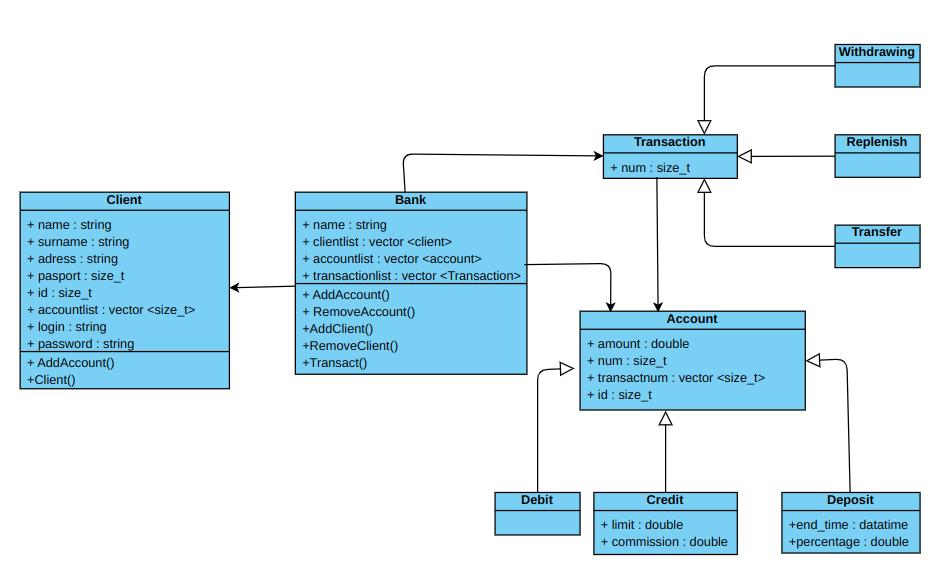
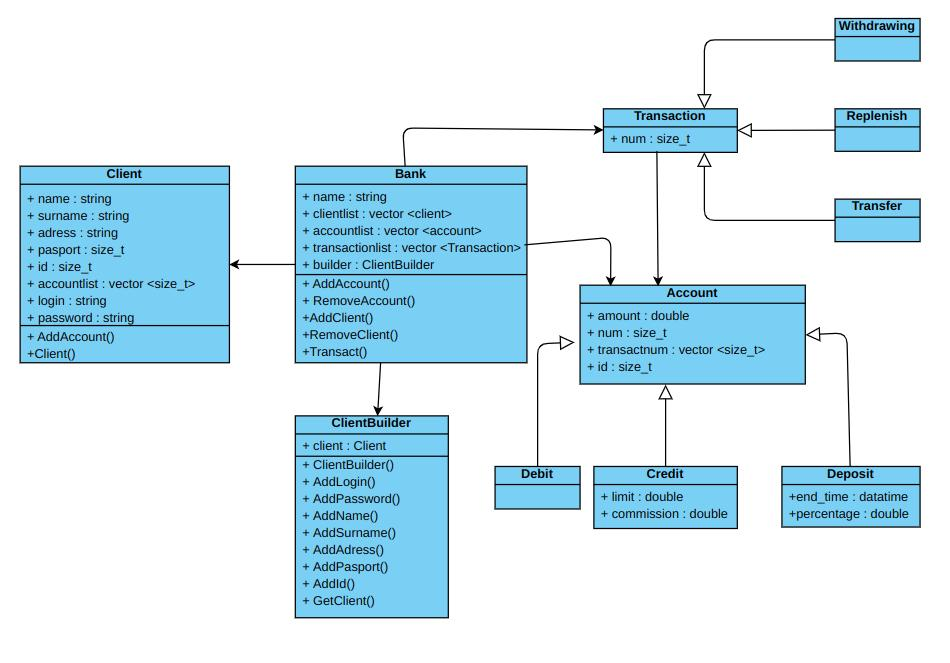
Upgrade all project, add builder

diff --git a/Code/bank.cpp b/Code/bank.cpp
@@ -31,34 +31,27 @@ void Bank::RemoveAccount(size_t num) {
 
 void Bank::AddClient() {
   std::cout << "Введите логин: ";
-  std::string login;
-  std::cin >> login;
+  builder->AddLogin();
   std::cout << "Введите пароль: ";
-  std::string pass;
-  std::cin >> pass;
+  builder->AddPassword();
   std::cout << "Введите имя: ";
-  std::string name;
-  std::cin >> name;
+  builder->AddName();
   std::cout << "Введите фамилию: ";
-  std::string surname;
-  std::cin >> surname;
+  builder->AddSurname();
   std::cout << "Хотите ввести адрес[Y/n]: ";
   char c;
-  std::cin >> c;
-  std::string adress = "";
   if (c == 'Y') {
     std::cout << "Введите адресс: ";
-    std::cin >> adress;
+    builder->AddAdress();
   }
   std::cout << "Хотите ввести номер паспорта[Y/n]: ";
   std::cin >> c;
-  size_t pasport = 0;
   if (c == 'Y') {
     std::cout << "Введите номер паспорта: ";
-    std::cin >> pasport;
+    builder->AddPasport();
   }
-  Client client{clientnum, name, surname, adress, pasport, login, pass};
-  clientlist.push_back(client);
+  builder->AddId(clientnum);
+  clientlist.push_back(builder->GetClient());
   ++clientnum;
 }
 

diff --git a/Code/clientbuilder.cpp b/Code/clientbuilder.cpp
@@ -1,0 +1,27 @@
+#include "clientbuilder.h"
+
+ClientBuilder::ClientBuilder() = default;
+void ClientBuilder::AddLogin() {
+  std::cin >> client.login;
+}
+void ClientBuilder::AddPassword() {
+  std::cin >> client.password;
+}
+void ClientBuilder::AddName() {
+  std::cin >> client.name;
+}
+void ClientBuilder::AddSurname() {
+  std::cin >> client.surname;
+}
+void ClientBuilder::AddAdress() {
+  std::cin >> client.adress;
+}
+void ClientBuilder::AddPasport() {
+  std::cin >> client.pasport;
+}
+void ClientBuilder::AddId(size_t num) {
+  client.id = num;
+}
+Client ClientBuilder::GetClient() {
+  return client;
+}

diff --git a/Code/client.cpp b/Code/client.cpp
@@ -1,6 +1,15 @@
 #pragma once
 #include "client.h"
 
+Client::Client() {
+    id = 0;
+    name = "";
+    surname = "";
+    adress = "";
+    pasport = 0;
+    login = "";
+    password = "";
+  }
 Client::Client(size_t x0, std::string x1, std::string x2, std::string x3, size_t x4, std::string x5, std::string x6) {
   id = x0;
   name = x1;
@@ -8,7 +17,7 @@ Client::Client(size_t x0, std::string x1, std::string x2, std::string x3, size_t
   adress = x3;
   pasport = x4;
   login = x5;
-  pass = x6;
+  password = x6;
 }
 bool Client::Questionable() {
   return ((pasport == 0) or (adress == ""));

diff --git a/Code/bank.h b/Code/bank.h
@@ -7,8 +7,10 @@
 #include "withdrawing.h"
 #include "replenish.h"
 #include "transfer.h"
+#include "clientbuilder.h"
 #include <iostream> 
-#include <vector> 
+#include <vector>
+
 
 class Bank {
  public:
@@ -19,6 +21,7 @@ class Bank {
   size_t clientnum = 0;
   size_t accountnum = 0;
   size_t transactionnum = 0;
+  ClientBuilder *builder;
   void AddAccount(size_t id, size_t type);
   void RemoveAccount(size_t num);
   void AddClient();

diff --git a/Code/clientbuilder.h b/Code/clientbuilder.h
@@ -1,0 +1,20 @@
+#pragma once
+#include <iostream>
+#include <vector>
+#include "client.h"
+
+
+class ClientBuilder{
+private:
+  Client client;
+public:
+  ClientBuilder();
+  void AddLogin();
+  void AddPassword();
+  void AddName();
+  void AddSurname();
+  void AddAdress();
+  void AddPasport();
+  void AddId(size_t num);
+  Client GetClient();
+};

diff --git a/Code/client.h b/Code/client.h
@@ -12,9 +12,8 @@ class Client {
   std::vector <size_t> accountlist;
   std::string login;
   std::string password;
-  std::string login;
-  std::string pass;
 
+  Client();
   Client(size_t x0, std::string x1, std::string x2, std::string x3, size_t x4, std::string x5, std::string x6);
   bool Questionable();
 };
